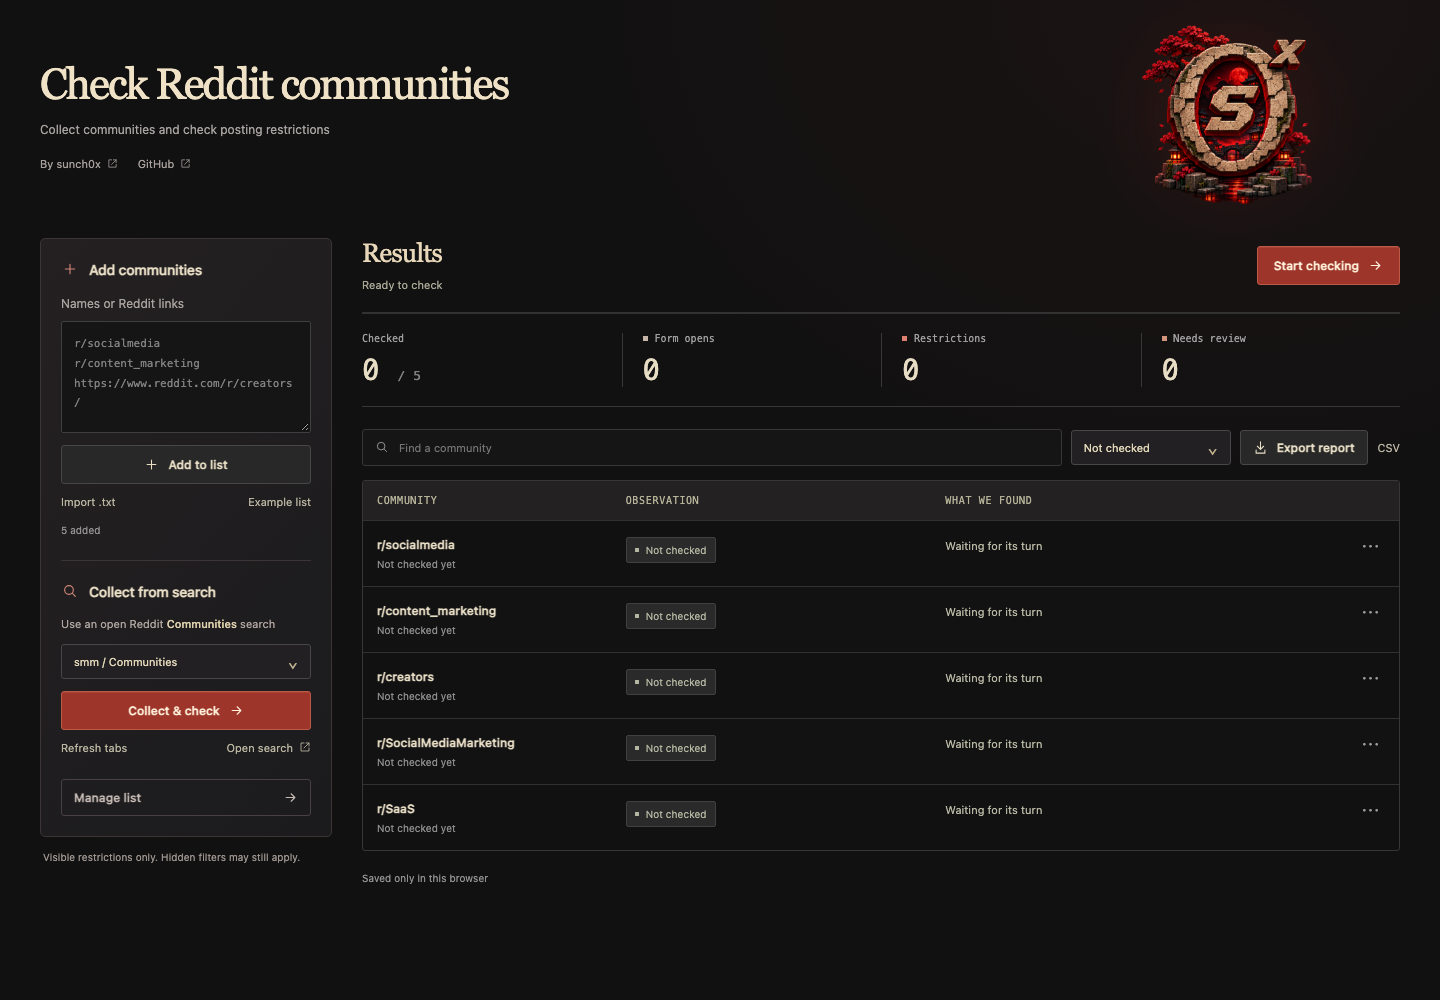
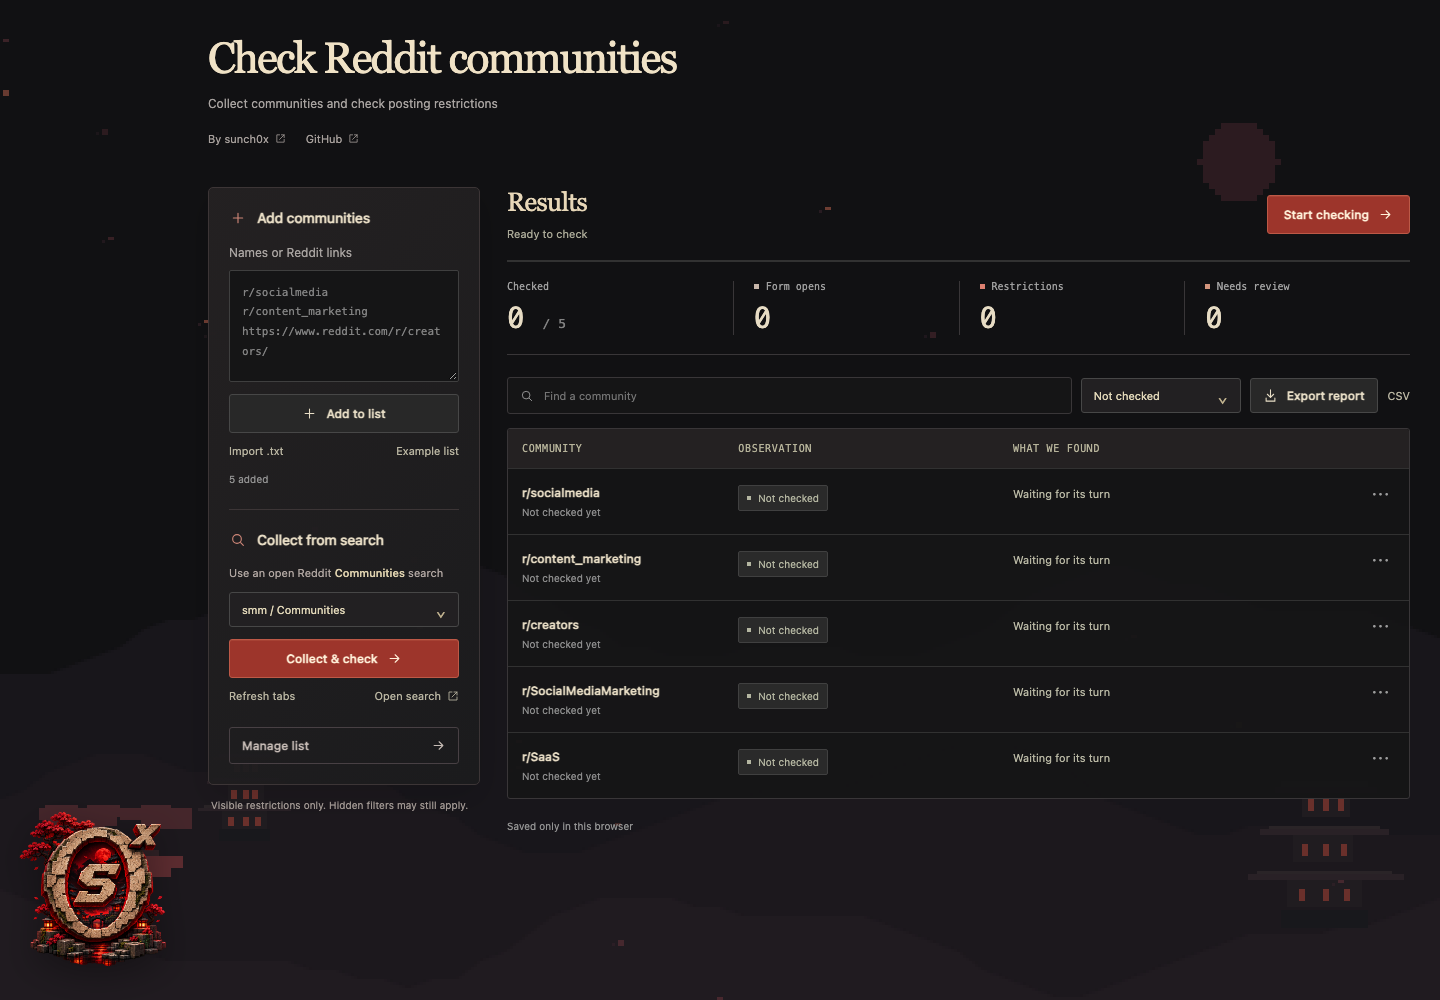
Add fixed creator emblem and a restrained ambient pixel world

diff --git a/extension/dashboard.html b/extension/dashboard.html
@@ -1,7 +1,7 @@
-<!doctype html><html lang="en"><head><meta charset="utf-8"><meta name="viewport" content="width=device-width,initial-scale=1"><title>Reddit Preflight</title><link rel="stylesheet" href="style.css"></head><body>
+<!doctype html><html lang="en"><head><meta charset="utf-8"><meta name="viewport" content="width=device-width,initial-scale=1"><title>Reddit Preflight</title><link rel="stylesheet" href="style.css"></head><body><canvas id="ambient-world" aria-hidden="true"></canvas><div class="creator-emblem" aria-hidden="true"><img src="icons/emblem.png" alt="" width="180" height="180"></div>
 <svg class="svg-defs" aria-hidden="true"><defs><symbol id="check" viewBox="0 0 24 24"><path d="m5 12 4 4L19 6"/></symbol><symbol id="arrow" viewBox="0 0 24 24"><path d="M5 12h14m-6-6 6 6-6 6"/></symbol><symbol id="plus" viewBox="0 0 24 24"><path d="M12 5v14M5 12h14"/></symbol><symbol id="download" viewBox="0 0 24 24"><path d="M12 3v12m-5-5 5 5 5-5M5 16v5h14v-5"/></symbol><symbol id="search-icon" viewBox="0 0 24 24"><circle cx="10.5" cy="10.5" r="6.5"/><path d="m16 16 4 4"/></symbol><symbol id="pause-icon" viewBox="0 0 24 24"><path d="M8 5v14M16 5v14"/></symbol><symbol id="external" viewBox="0 0 24 24"><path d="M14 4h6v6m0-6L10 14M10 4H4v16h16v-6"/></symbol><symbol id="trash" viewBox="0 0 24 24"><path d="M3 6h18M9 6V3h6v3M6 6l1 15h10l1-15M10 10v7m4-7v7"/></symbol></defs></svg>
 <div class="app"><div id="account-pill" hidden><span id="account-label"></span></div>
-<section class="intro"><div class="intro-copy"><h1>Check Reddit communities</h1><p>Collect communities and check posting restrictions</p><nav class="project-links" aria-label="Project links"><a href="https://linkdeck.co/sunch0x" target="_blank" rel="noopener noreferrer">By sunch0x <svg><use href="#external"/></svg></a><a href="https://github.com/sunch0x/reddit-preflight" target="_blank" rel="noopener noreferrer">GitHub <svg><use href="#external"/></svg></a></nav></div><div class="intro-art"><img src="icons/emblem.png" alt="Stone s-in-zero emblem with a crimson moon" width="300" height="300"></div></section>
+<section class="intro"><div class="intro-copy"><h1>Check Reddit communities</h1><p>Collect communities and check posting restrictions</p><nav class="project-links" aria-label="Project links"><a href="https://linkdeck.co/sunch0x" target="_blank" rel="noopener noreferrer">By sunch0x <svg><use href="#external"/></svg></a><a href="https://github.com/sunch0x/reddit-preflight" target="_blank" rel="noopener noreferrer">GitHub <svg><use href="#external"/></svg></a></nav></div></section>
 <div class="workspace"><aside><div class="sidebar-panel"><section class="input-panel"><div class="panel-heading"><span class="icon-tile"><svg><use href="#plus"/></svg></span><h2>Add communities</h2></div><label for="community-input">Names or Reddit links</label><textarea id="community-input" spellcheck="false" placeholder="r/socialmedia&#10;r/content_marketing&#10;https://www.reddit.com/r/creators/"></textarea><button id="add" class="button full"><svg><use href="#plus"/></svg>Add to list</button><div class="import-row"><label class="text-button file-button">Import .txt<input id="import-list" type="file" accept=".txt,text/plain"></label><button id="sample" class="text-button">Example list</button></div><p class="micro" id="input-message" role="status"></p></section><section class="collect-panel"><div class="panel-heading"><span class="icon-tile"><svg><use href="#search-icon"/></svg></span><h2>Collect from search</h2></div><p>Use an open Reddit <strong>Communities</strong> search</p><label class="sr-only" for="source-tab">Reddit search tab</label><select id="source-tab"><option value="">Looking for open search tabs…</option></select><button id="collect" class="button primary full"><span id="collect-label">Collect &amp; check</span><svg><use href="#arrow"/></svg></button><div class="import-row"><button id="refresh-source" class="text-button">Refresh tabs</button><a class="text-button" href="https://www.reddit.com/search/?q=social%20media&amp;type=communities" target="_blank" rel="noopener noreferrer">Open search <svg><use href="#external"/></svg></a></div><p class="micro" id="collect-message" role="status"></p></section><button id="manage-list" class="button full manage-list" aria-haspopup="dialog">Manage list <svg><use href="#arrow"/></svg></button></div><p class="scope-note">Visible restrictions only. Hidden filters may still apply.</p></aside>
 <section class="results"><div class="scan-bar"><div><h2>Results</h2><p id="message" role="status" aria-live="polite">Add a few communities to get started</p></div><div class="run-actions"><button id="pause" class="button" hidden><svg><use href="#pause-icon"/></svg>Pause</button><button id="start" class="button primary" disabled><span id="start-label">Start checking</span><svg><use href="#arrow"/></svg></button></div></div>
 <div class="progress-track" role="progressbar" aria-label="Communities checked" aria-valuemin="0" aria-valuenow="0" id="progress"><div id="progress-fill"></div></div>

diff --git a/extension/style.css b/extension/style.css
@@ -20,3 +20,11 @@ footer{border-top:1px solid var(--line);padding:22px 0 26px;display:flex;justify
 .table-wrap{max-height:none;overflow-x:auto}.workspace{padding-bottom:34px}.progress-track{margin-top:18px}.summary{padding:19px 0}.table-wrap th{background:#242122}.scan-details{margin-bottom:0}
 #list-dialog{max-width:440px;max-height:90dvh;overflow:auto;padding:23px}.manage-heading{display:flex;justify-content:space-between;align-items:center;gap:16px;margin-bottom:10px}.manage-heading h2{font:26px Georgia,serif;color:#ead9be}.manage-section{padding:12px 0;border-bottom:1px solid #44383b}.manage-section h3{font-size:11px;text-transform:uppercase;letter-spacing:.08em;color:#b28d83;margin:0 0 9px}.manage-action{display:flex;align-items:center;justify-content:space-between;gap:15px;width:100%;border:0;border-radius:3px;padding:12px 9px;background:transparent;color:#e0d4c6;text-align:left;font-size:13px;cursor:pointer;transition:background .16s,transform .16s}.manage-action:hover{background:#3d2a2e}.manage-action:active{transform:scale(.99)}.manage-action small{display:block;font-size:11px;color:#a99c95;margin-top:5px}.manage-action svg{width:16px;height:16px;color:#ca8c7d}.manage-section .toggle{font-size:11px;color:#b4a9a3;padding:13px 9px 6px}.manage-action.danger{color:#df9381;margin-top:12px}
 @media(max-width:760px){.intro{margin-bottom:17px;min-height:165px;padding-top:18px}.intro-art{height:130px}.project-links{gap:16px;margin-top:14px}.sidebar-panel{padding:17px}.sidebar-panel textarea{min-height:100px}.table-wrap{max-height:none}.scope-note{margin-bottom:2px}.workspace{gap:23px}}
+
+/* A quiet pixel world, with a dedicated rail for the creator emblem. */
+body{background:#111113}#ambient-world{position:fixed;inset:0;width:100%;height:100%;image-rendering:pixelated;pointer-events:none;z-index:0}.app{position:relative;z-index:1;margin:0 auto 0 196px;max-width:1500px;padding:0 30px 20px 12px}.creator-emblem{position:fixed;left:16px;bottom:20px;width:164px;height:180px;z-index:2;pointer-events:none;animation:emblem-in .8s var(--ease) both}.creator-emblem img{width:100%;height:100%;object-fit:contain;filter:drop-shadow(0 10px 18px #0005)}.intro{display:block;min-height:0;padding:36px 0 27px;margin-bottom:15px}.intro-copy{animation:arrive .6s var(--ease) both}.intro h1{max-width:none}.sidebar-panel{background:linear-gradient(130deg,#242122f5,#1b1b1df5);box-shadow:0 12px 32px #0002}.results{animation:arrive .65s .07s var(--ease) both}.table-wrap{background:#141416ed}.workspace{grid-template-columns:272px minmax(0,1fr);gap:27px}.sidebar-panel .button,.manage-list{transition:background .2s,border-color .2s,transform .3s var(--ease),box-shadow .2s}.button:not(:disabled):hover{transform:translateY(-1px);box-shadow:0 4px 12px #0002}.button:not(:disabled):active{transform:scale(.987);box-shadow:none}.project-links a{transition:color .2s,transform .3s var(--ease)}.project-links a:hover{transform:translateY(-1px)}.select-options{animation:menu-in .18s var(--ease);transform-origin:top}.badge{transition:background .2s,border-color .2s}.manage-action{transition:background .2s,transform .25s var(--ease)}
+@keyframes menu-in{from{opacity:0;transform:translateY(-3px) scale(.985)}to{opacity:1;transform:translateY(0) scale(1)}}
+@media(max-width:1200px){.app{margin-left:112px;padding-right:22px}.creator-emblem{left:10px;bottom:18px;width:88px;height:105px}.workspace{grid-template-columns:250px minmax(0,1fr);gap:20px}}
+@media(max-width:900px){.app{margin-left:80px;padding-left:8px;padding-right:18px}.creator-emblem{left:7px;width:65px;height:80px}.workspace{grid-template-columns:1fr}.intro{padding-top:28px}.intro h1{font-size:36px}.sidebar-panel{max-width:none}.summary{gap:0}}
+@media(max-width:760px){.app{margin-left:52px;padding-left:8px;padding-right:14px;padding-bottom:20px}.creator-emblem{left:4px;bottom:14px;width:44px;height:56px}.intro{padding:25px 0 18px;margin-bottom:10px;min-height:0}.intro h1{font-size:31px;line-height:1.12}.intro p{font-size:11px}.workspace{gap:20px}.scan-bar{flex-wrap:wrap}.run-actions{margin-left:auto}.summary{grid-template-columns:repeat(2,minmax(0,1fr));gap:17px 0}.metric:nth-child(3){padding-left:0;border-left:0}.table-tools .select-trigger{min-width:140px;max-width:none;flex:1}.search{flex-basis:100%;min-width:0}.export-actions{margin-left:0}.sidebar-panel{padding:15px}.scope-note{font-size:10px}}
+@media(prefers-reduced-motion:reduce){.creator-emblem,.results,.intro-copy,.select-options{animation:none!important}.button:hover,.button:active,.project-links a:hover{transform:none!important}}

diff --git a/extension/ambient.js b/extension/ambient.js
@@ -1,0 +1,41 @@
+// Low-resolution procedural pixel scenery. One capped loop, no WebGL or external assets.
+export function startAmbient(){
+ const canvas=document.getElementById('ambient-world');if(!canvas)return;
+ const ctx=canvas.getContext('2d',{alpha:false}),motion=matchMedia('(prefers-reduced-motion: reduce)');
+ let width=0,height=0,frame=0,last=0,origin=performance.now();
+ const particles=Array.from({length:22},(_,i)=>({x:((i*71+13)%997)/997,y:((i*137+83)%991)/991,speed:.4+(i%5)*.12,phase:i*2.399}));
+ const rect=(x,y,w,h,c)=>{ctx.fillStyle=c;ctx.fillRect(Math.round(x),Math.round(y),Math.round(w),Math.round(h));};
+ function ridge(base,seed,color){ctx.fillStyle=color;ctx.beginPath();ctx.moveTo(0,height);for(let x=0;x<=width+8;x+=8){const y=base+Math.sin(x*.025+seed)*14+Math.sin(x*.061+seed)*5;ctx.lineTo(x,Math.round(y/3)*3);}ctx.lineTo(width,height);ctx.closePath();ctx.fill();}
+ function pagoda(x,y,size){
+  for(let floor=0;floor<3;floor++){
+   const yy=y-floor*size*.46,half=size*(.7-floor*.12);
+   rect(x-half*.55,yy-size*.35,half*1.1,size*.32,'#201c20');
+   rect(x-half,yy-size*.42,half*2,size*.09,'#2a2427');rect(x-half*1.16,yy-size*.37,half*2.32,size*.05,'#292126');
+   for(let i=-1;i<=1;i++)rect(x+i*half*.34-1,yy-size*.23,2,size*.14,'#6a302b');
+  }
+  rect(x-size*.45,y,size*.9,size*.2,'#18181c');
+ }
+ function tree(x,y){
+  rect(x,y-35,3,38,'#302226');rect(x-13,y-25,15,3,'#302226');rect(x+2,y-30,13,3,'#302226');
+  for(let i=0;i<15;i++){const dx=Math.sin(i*2.4)*20,dy=Math.cos(i*2.1)*11;rect(x+dx-5,y-39+dy,8+(i%3)*2,4+(i%2)*3,i%3?'#45262b':'#5c2c30');}
+ }
+ function draw(now){
+  const t=motion.matches?0:(now-origin)/1000;
+  rect(0,0,width,height,'#111113');
+  // Stepped moon silhouette and ridges echo the stone emblem rather than adding a second hero.
+  const mx=width*.86,my=height*.16;
+  for(let yy=-14;yy<=14;yy+=2){const half=Math.floor(Math.sqrt(196-yy*yy)/2)*2;rect(mx-half,my+yy,half*2,2,'#2c1b20');}
+  ridge(height*.62,1.3,'#18161b');ridge(height*.8,3.1,'#1c181d');ridge(height*.94,5.1,'#201b20');
+  pagoda(width*.92,height*.91,32);pagoda(width*.17,height*.83,19);tree(width*.08,height*.94);
+  for(let i=0;i<particles.length;i++){
+   const p=particles[i],x=(p.x*width+t*p.speed*2)%(width+12)-6,y=p.y*height+Math.sin(t*.23+p.phase)*10;
+   const alpha=.3+.35*(.5+.5*Math.sin(t*.7+p.phase));ctx.globalAlpha=alpha;
+   const shade=i%4===0?'#a45745':'#633239';rect(x,y,2,i%3===0?2:1,shade);rect(x-2,y+1,1,1,'#35222a');
+  }
+  ctx.globalAlpha=1;
+ }
+ function tick(now){frame=0;if(document.hidden||motion.matches)return;if(now-last>=1000/24){draw(now);last=now;}frame=requestAnimationFrame(tick);}
+ function refresh(){cancelAnimationFrame(frame);frame=0;if(document.hidden)return;draw(performance.now());if(!motion.matches)frame=requestAnimationFrame(tick);}
+ function resize(){width=Math.ceil(innerWidth/3);height=Math.ceil(innerHeight/3);canvas.width=width;canvas.height=height;refresh();}
+ document.addEventListener('visibilitychange',refresh);motion.addEventListener('change',refresh);window.addEventListener('resize',resize,{passive:true});window.addEventListener('pagehide',()=>cancelAnimationFrame(frame),{once:true});resize();
+}

diff --git a/extension/dashboard.js b/extension/dashboard.js
@@ -1,3 +1,4 @@
+import {startAmbient} from './ambient.js';
 import {enhanceSelects} from './select-menu.js';
 import {LABELS,REASONS,escapeHTML as e,parseCommunities,exportCSV,exportHTML,validateBackup,isCommunitySearchURL,mergeCollected} from './core.js';
 import {collectSnapshot} from './snapshot.js';import {Scanner} from './scanner.js';
@@ -131,4 +132,5 @@ async function init(){
  await refreshSources().catch(()=>{$('collect-message').textContent='Open a Reddit Communities search, then click Refresh tabs';});
 }
 window.addEventListener('beforeunload',()=>{scanner?.pause();collector?.pause();});
+startAmbient();
 init().catch(err=>say('Could not open Preflight: '+err.message));

diff --git a/docs/plans/2026-11-03-ambient-world.md b/docs/plans/2026-11-03-ambient-world.md
@@ -1,0 +1,9 @@
+# Ambient pixel world
+
+User request: keep the creator emblem visible at the lower left during scrolling; add subtle polished motion and a pixel-world background with passing essences.
+
+Implementation: fixed decorative emblem with a reserved left rail at every breakpoint. Fixed, pointer-transparent low-resolution Canvas 2D scene: stepped moon, layered mountains, pagoda silhouettes, tree and 22 drifting particles. Single requestAnimationFrame loop, drawing at most 24 times per second, paused while hidden and static with prefers-reduced-motion. No WebGL, dependencies, remote images or background requests.
+
+UI motion: short fade/translation on initial content, restrained hover/press scaling and menu reveal. Reduced-motion styles override all effects.
+
+Validation: 34 tests and isolated local Chromium fixture. Verified fixed emblem stays outside content during a long-page scroll, canvas dimensions are one third viewport resolution, reduced-motion stops canvas drawing and CSS animations, management/menu controls work, 105 rows expand vertically, and 390px layout has no horizontal page overflow. Authenticated Reddit behavior is outside this visual change.

diff --git a/docs/TESTING.md b/docs/TESTING.md
@@ -34,3 +34,6 @@ Local Chromium DOM fixture verified filter selection, source-tab selection, Esca
 
 ## Layout cleanup (0.3.3)
 Local Chromium verified the Manage list dialog opens and closes, no footer or hero divider remains, and 105 rendered rows grow the page rather than creating a vertical table scroll area. The 390px viewport has no horizontal page overflow. Existing select interaction checks still pass.
+
+## Ambient world (0.4.0)
+Browser fixture verifies the fixed emblem does not move during scroll or overlap the content rail, canvas is bounded to one third viewport resolution, and prefers-reduced-motion produces zero canvas draws during a subsequent observation window and no emblem CSS animation.
